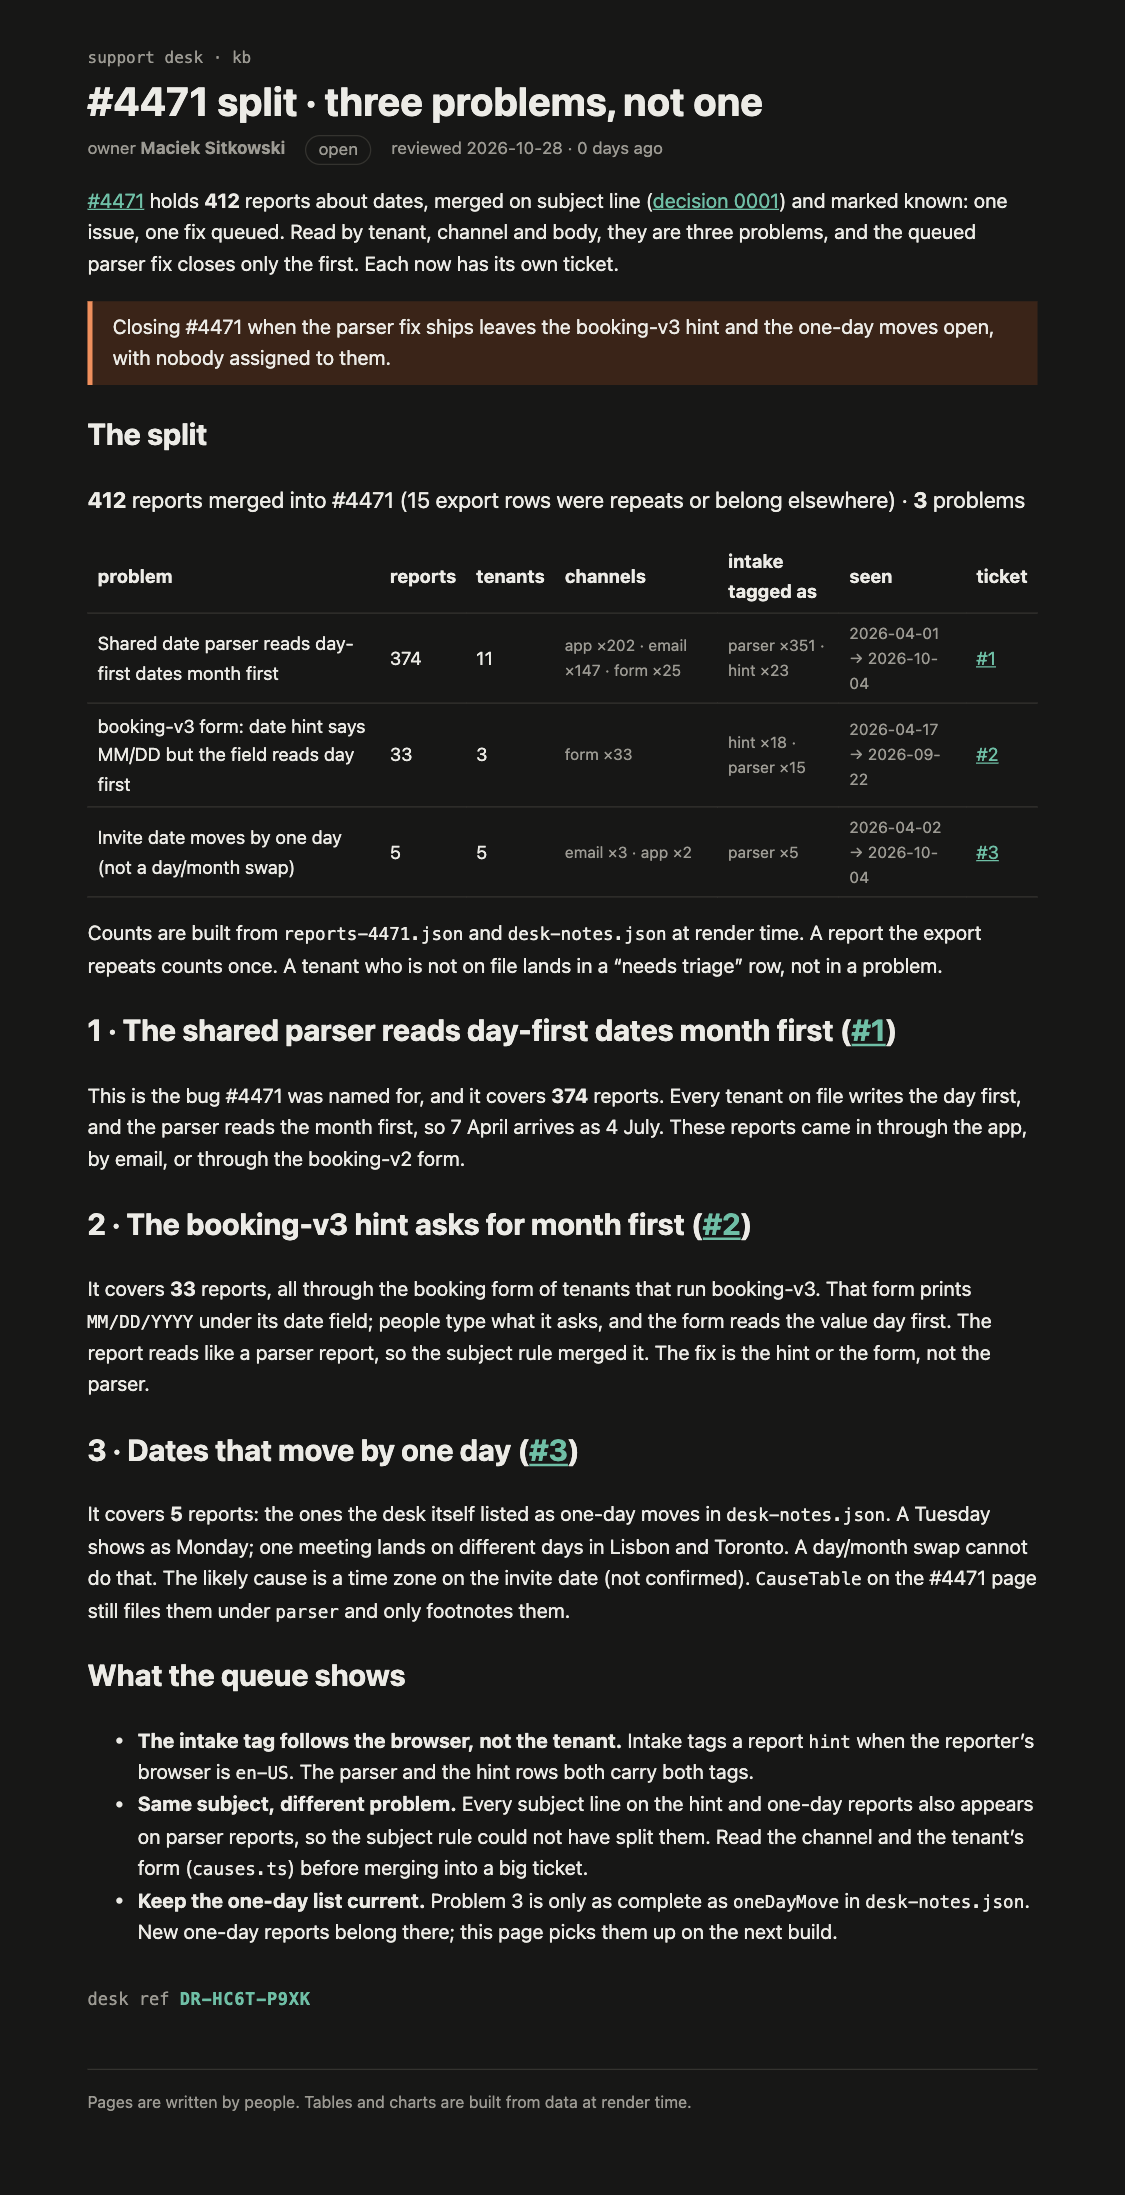
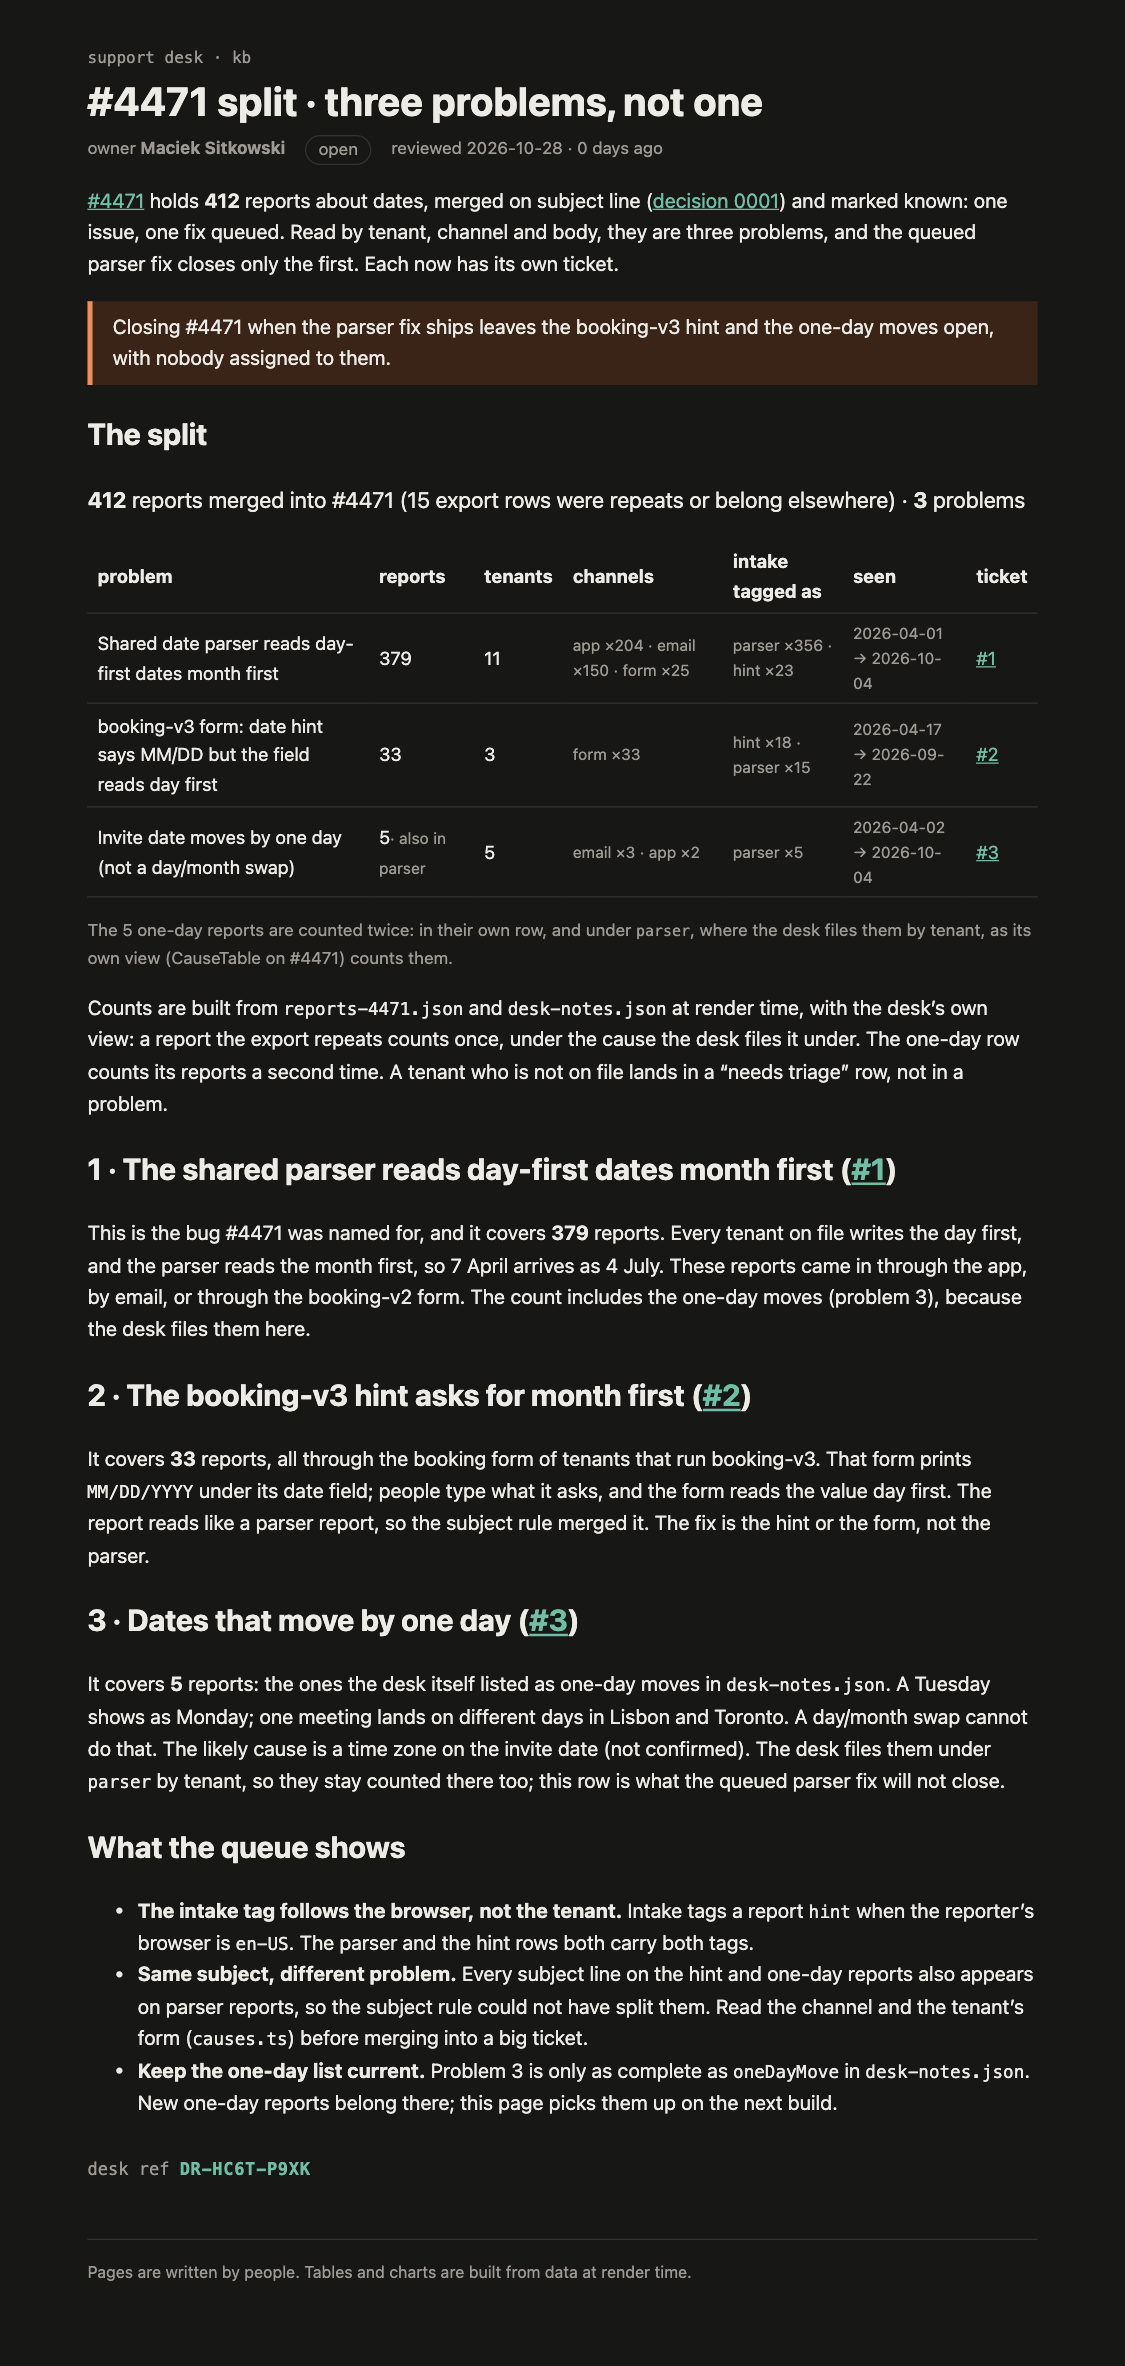
kb: count #4471 split with the desk's own view
Parser/hint come from groupByCause as CauseTable counts them; the one-day row counts its reports a second time, still filed under parser. Matches issue #1 (379).

diff --git a/rendered/4471-split.html b/rendered/4471-split.html
@@ -3,21 +3,21 @@
   <head>
     <meta charset="utf-8" />
     <meta name="viewport" content="width=device-width, initial-scale=1" />
-    <link href="../../_app/immutable/entry/start.N2RZi4Ro.js" rel="modulepreload">
+    <link href="../../_app/immutable/entry/start.PsPxi_ea.js" rel="modulepreload">
 		<link href="../../_app/immutable/chunks/fruYDLqp.js" rel="modulepreload">
-		<link href="../../_app/immutable/chunks/LV5d2gkk.js" rel="modulepreload">
+		<link href="../../_app/immutable/chunks/DdspoXR4.js" rel="modulepreload">
 		<link href="../../_app/immutable/chunks/Cbdj2qAo.js" rel="modulepreload">
-		<link href="../../_app/immutable/entry/app.BtPvdegX.js" rel="modulepreload">
+		<link href="../../_app/immutable/entry/app.6z4g_MA8.js" rel="modulepreload">
 		<link href="../../_app/immutable/chunks/BkYfdh9H.js" rel="modulepreload">
 		<link href="../../_app/immutable/chunks/BD3UdjSR.js" rel="modulepreload">
 		<link href="../../_app/immutable/chunks/wnmzq4eU.js" rel="modulepreload">
 		<link href="../../_app/immutable/chunks/TGQFHf5e.js" rel="modulepreload">
 		<link href="../../_app/immutable/nodes/0.CCpBT1ka.js" rel="modulepreload">
 		<link href="../../_app/immutable/chunks/ybC49tkz.js" rel="modulepreload">
-		<link href="../../_app/immutable/nodes/5.B3OJIxkS.js" rel="modulepreload">
-		<link href="../../_app/immutable/chunks/C7xtx7Kv.js" rel="modulepreload">
+		<link href="../../_app/immutable/nodes/5.mKniztp2.js" rel="modulepreload">
+		<link href="../../_app/immutable/chunks/Cb8XVL1P.js" rel="modulepreload">
 		<link href="../../_app/immutable/chunks/DFPV7QJw.js" rel="modulepreload">
-		<link href="../../_app/immutable/chunks/DxLlZHEF.js" rel="modulepreload">
+		<link href="../../_app/immutable/chunks/bMpqO4Su.js" rel="modulepreload">
 		<link href="../../_app/immutable/chunks/iXLSwIXB.js" rel="modulepreload">
 		<!--e2jw2j--><!----><title>#4471 split · three problems, not one · support kb</title>
 		<link href="../../_app/immutable/assets/runbook.BhhgOc_n.css" rel="stylesheet">
@@ -30,33 +30,35 @@ subject line (<a href="/kb/decisions/0001-dedupe-by-subject">decision 0001</a>) 
 one fix queued. Read by tenant, channel and body, they are three problems, and the queued parser
 fix closes only the first. Each now has its own ticket.</p> <aside class="warn svelte-17bri61"><!---->Closing #4471 when the parser fix ships leaves the booking-v3 hint and the one-day moves open,
 with nobody assigned to them.<!----></aside><!----> <h2>The split</h2> <p class="sum svelte-1op6c6"><strong>412</strong> reports merged into #4471
-  (15 export rows were repeats or belong elsewhere) · <strong>3</strong> problems</p> <table><thead><tr><th>problem</th><th>reports</th><th>tenants</th><th>channels</th><th>intake tagged as</th><th>seen</th><th>ticket</th></tr></thead><tbody><!--[--><tr class="svelte-1op6c6"><td class="svelte-1op6c6">Shared date parser reads day-first dates month first</td><td class="svelte-1op6c6">374</td><td class="svelte-1op6c6">11</td><td class="small svelte-1op6c6">app ×202 · email ×147 · form ×25</td><td class="small svelte-1op6c6">parser ×351 · hint ×23</td><td class="small svelte-1op6c6">2026-04-01 → 2026-10-04</td><td class="svelte-1op6c6"><!--[0--><a href="https://github.com/sitek94/mega-s01e03-what-it-shows/issues/1">#1</a><!--]--></td></tr><tr class="svelte-1op6c6"><td class="svelte-1op6c6">booking-v3 form: date hint says MM/DD but the field reads day first</td><td class="svelte-1op6c6">33</td><td class="svelte-1op6c6">3</td><td class="small svelte-1op6c6">form ×33</td><td class="small svelte-1op6c6">hint ×18 · parser ×15</td><td class="small svelte-1op6c6">2026-04-17 → 2026-09-22</td><td class="svelte-1op6c6"><!--[0--><a href="https://github.com/sitek94/mega-s01e03-what-it-shows/issues/2">#2</a><!--]--></td></tr><tr class="svelte-1op6c6"><td class="svelte-1op6c6">Invite date moves by one day (not a day/month swap)</td><td class="svelte-1op6c6">5</td><td class="svelte-1op6c6">5</td><td class="small svelte-1op6c6">email ×3 · app ×2</td><td class="small svelte-1op6c6">parser ×5</td><td class="small svelte-1op6c6">2026-04-02 → 2026-10-04</td><td class="svelte-1op6c6"><!--[0--><a href="https://github.com/sitek94/mega-s01e03-what-it-shows/issues/3">#3</a><!--]--></td></tr><!--]--></tbody></table><!----> <p>Counts are built from <code>reports-4471.json</code> and <code>desk-notes.json</code> at render time. A report the
-export repeats counts once. A tenant who is not on file lands in a “needs triage” row, not in a
-problem.</p> <h2>1 · The shared parser reads day-first dates month first (<a href="https://github.com/sitek94/mega-s01e03-what-it-shows/issues/1" rel="nofollow">#1</a>)</h2> <p>This is the bug #4471 was named for, and it covers <strong>374</strong><!----> reports. Every tenant on file writes the day first, and the parser reads the month first, so
+  (15 export rows were repeats or belong elsewhere) · <strong>3</strong> problems</p> <table><thead><tr><th>problem</th><th>reports</th><th>tenants</th><th>channels</th><th>intake tagged as</th><th>seen</th><th>ticket</th></tr></thead><tbody><!--[--><tr class="svelte-1op6c6"><td class="svelte-1op6c6">Shared date parser reads day-first dates month first</td><td class="svelte-1op6c6">379<!--[-1--><!--]--></td><td class="svelte-1op6c6">11</td><td class="small svelte-1op6c6">app ×204 · email ×150 · form ×25</td><td class="small svelte-1op6c6">parser ×356 · hint ×23</td><td class="small svelte-1op6c6">2026-04-01 → 2026-10-04</td><td class="svelte-1op6c6"><!--[0--><a href="https://github.com/sitek94/mega-s01e03-what-it-shows/issues/1">#1</a><!--]--></td></tr><tr class="svelte-1op6c6"><td class="svelte-1op6c6">booking-v3 form: date hint says MM/DD but the field reads day first</td><td class="svelte-1op6c6">33<!--[-1--><!--]--></td><td class="svelte-1op6c6">3</td><td class="small svelte-1op6c6">form ×33</td><td class="small svelte-1op6c6">hint ×18 · parser ×15</td><td class="small svelte-1op6c6">2026-04-17 → 2026-09-22</td><td class="svelte-1op6c6"><!--[0--><a href="https://github.com/sitek94/mega-s01e03-what-it-shows/issues/2">#2</a><!--]--></td></tr><tr class="svelte-1op6c6"><td class="svelte-1op6c6">Invite date moves by one day (not a day/month swap)</td><td class="svelte-1op6c6">5<!--[0--><span class="small svelte-1op6c6">· also in parser</span><!--]--></td><td class="svelte-1op6c6">5</td><td class="small svelte-1op6c6">email ×3 · app ×2</td><td class="small svelte-1op6c6">parser ×5</td><td class="small svelte-1op6c6">2026-04-02 → 2026-10-04</td><td class="svelte-1op6c6"><!--[0--><a href="https://github.com/sitek94/mega-s01e03-what-it-shows/issues/3">#3</a><!--]--></td></tr><!--]--></tbody></table> <!--[--><p class="small svelte-1op6c6">The 5 one-day reports are counted twice: in their own row, and under <code>parser</code>, where the desk files them by tenant, as its own view
+    (CauseTable on #4471) counts them.</p><!--]--><!----> <p>Counts are built from <code>reports-4471.json</code> and <code>desk-notes.json</code> at render time, with the desk’s own
+view: a report the export repeats counts once, under the cause the desk files it under. The one-day
+row counts its reports a second time. A tenant who is not on file lands in a “needs triage” row,
+not in a problem.</p> <h2>1 · The shared parser reads day-first dates month first (<a href="https://github.com/sitek94/mega-s01e03-what-it-shows/issues/1" rel="nofollow">#1</a>)</h2> <p>This is the bug #4471 was named for, and it covers <strong>379</strong><!----> reports. Every tenant on file writes the day first, and the parser reads the month first, so
 7 April arrives as 4 July. These reports came in through the app, by email, or through the
-booking-v2 form.</p> <h2>2 · The booking-v3 hint asks for month first (<a href="https://github.com/sitek94/mega-s01e03-what-it-shows/issues/2" rel="nofollow">#2</a>)</h2> <p>It covers <strong>33</strong><!----> reports, all through the booking form of
+booking-v2 form. The count includes the one-day moves (problem 3), because the desk files them here.</p> <h2>2 · The booking-v3 hint asks for month first (<a href="https://github.com/sitek94/mega-s01e03-what-it-shows/issues/2" rel="nofollow">#2</a>)</h2> <p>It covers <strong>33</strong><!----> reports, all through the booking form of
 tenants that run booking-v3. That form prints <code>MM/DD/YYYY</code> under its date field; people type what
 it asks, and the form reads the value day first. The report reads like a parser report, so the
 subject rule merged it. The fix is the hint or the form, not the parser.</p> <h2>3 · Dates that move by one day (<a href="https://github.com/sitek94/mega-s01e03-what-it-shows/issues/3" rel="nofollow">#3</a>)</h2> <p>It covers <strong>5</strong><!----> reports: the ones the desk itself listed
 as one-day moves in <code>desk-notes.json</code>. A Tuesday shows as Monday; one meeting lands on different
 days in Lisbon and Toronto. A day/month swap cannot do that. The likely cause is a time zone on the
-invite date (not confirmed). <code>CauseTable</code> on the #4471 page still files them under <code>parser</code> and
-only footnotes them.</p> <h2>What the queue shows</h2> <ul><li><strong>The intake tag follows the browser, not the tenant.</strong> Intake tags a report <code>hint</code> when the
+invite date (not confirmed). The desk files them under <code>parser</code> by tenant, so they stay counted
+there too; this row is what the queued parser fix will not close.</p> <h2>What the queue shows</h2> <ul><li><strong>The intake tag follows the browser, not the tenant.</strong> Intake tags a report <code>hint</code> when the
 reporter’s browser is <code>en-US</code>. The parser and the hint rows both carry both tags.</li> <li><strong>Same subject, different problem.</strong> Every subject line on the hint and one-day reports also
 appears on parser reports, so the subject rule could not have split them. Read the channel and
 the tenant’s form (<code>causes.ts</code>) before merging into a big ticket.</li> <li><strong>Keep the one-day list current.</strong> Problem 3 is only as complete as <code>oneDayMove</code> in <code>desk-notes.json</code>. New one-day reports belong there; this page picks them up on the next build.</li></ul> <!--[0--><p class="stamp svelte-1280m42">desk ref <b class="svelte-1280m42">DR-HC6T-P9XK</b></p><!--]--><!----><!----></main> <footer class="svelte-e2jw2j">Pages are written by people. Tables and charts are built from data at render time.</footer></div><!--]--><!----><!--]--><!--]--> <!--[-1--><!--]--><!--]-->
 			
 			<script>
 				{
-					__sveltekit_17jyalu = {
+					__sveltekit_y9k0yg = {
 						base: new URL("../..", location).pathname.slice(0, -1)
 					};
 
 					const element = document.currentScript.parentElement;
 
 					Promise.all([
-						import("../../_app/immutable/entry/start.N2RZi4Ro.js"),
-						import("../../_app/immutable/entry/app.BtPvdegX.js")
+						import("../../_app/immutable/entry/start.PsPxi_ea.js"),
+						import("../../_app/immutable/entry/app.6z4g_MA8.js")
 					]).then(([kit, app]) => {
 						kit.start(app, element, {
 							node_ids: [0, 5],

diff --git a/src/lib/kb/problems.ts b/src/lib/kb/problems.ts
@@ -1,9 +1,10 @@
-// #4471 split by problem. A cause (causes.ts) says where a report's date went wrong by tenant and
-// channel; a problem is what the fix has to change. The one-day moves the desk recorded in
-// desk-notes.json are not a day/month swap, so they leave the cause they are filed under.
-import { causeOf, uniqueById, type Report, type Tenant } from '#lib/kb/causes';
+// #4471 split by problem, counted with the desk's own view: each report stays under the cause it
+// is filed under (causes.ts, as CauseTable counts it). The one-day moves the desk recorded in
+// desk-notes.json are a problem of their own, so they get their own row too, while still being
+// counted under the cause they are filed under.
+import { groupByCause, uniqueById, type Cause, type Report, type Tenant } from '#lib/kb/causes';
 
-export type Problem = 'parser' | 'hint' | 'one-day' | 'unplaced';
+export type Problem = Cause | 'one-day' | 'unplaced';
 
 const ISSUES = 'https://github.com/sitek94/mega-s01e03-what-it-shows/issues';
 
@@ -16,14 +17,11 @@ export const PROBLEMS: Record<Problem, { title: string; issue: number | null }> 
 
 export const issueUrl = (n: number) => `${ISSUES}/${n}`;
 
-export function problemOf(r: Report, t: Tenant | undefined, oneDayMove: readonly string[]): Problem {
-  if (oneDayMove.includes(r.id)) return 'one-day';
-  return causeOf(r, t) ?? 'unplaced';
-}
-
 export type ProblemGroup = {
   problem: Problem;
   reports: Report[];
+  // Problems these reports are also counted under (the cause the desk files them under).
+  alsoIn: Problem[];
   tenants: number;
   channels: Record<string, number>;
   taggedAs: Record<string, number>;
@@ -34,7 +32,22 @@ export type ProblemGroup = {
 const tally = (rs: Report[], key: (r: Report) => string) =>
   rs.reduce<Record<string, number>>((n, r) => ({ ...n, [key(r)]: (n[key(r)] ?? 0) + 1 }), {});
 
-// Unique reports merged into the ticket, one group per problem, largest first.
+function group(problem: Problem, rs: Report[], alsoIn: Problem[]): ProblemGroup {
+  const days = rs.map((r) => r.receivedAt.slice(0, 10)).sort();
+  return {
+    problem,
+    reports: rs,
+    alsoIn,
+    tenants: new Set(rs.map((r) => r.tenant)).size,
+    channels: tally(rs, (r) => r.channel),
+    taggedAs: tally(rs, (r) => r.meta.intakeTag),
+    firstSeen: days[0],
+    lastSeen: days[days.length - 1],
+  };
+}
+
+// Unique reports merged into the ticket: one group per cause as the desk files them, largest
+// first, then the one-day moves.
 export function splitTicket(
   reports: Report[],
   ticket: number,
@@ -42,24 +55,12 @@ export function splitTicket(
   oneDayMove: readonly string[],
 ): { merged: Report[]; groups: ProblemGroup[] } {
   const merged = uniqueById(reports).filter((r) => r.mergedInto === ticket);
-  const byProblem = new Map<Problem, Report[]>();
-  for (const r of merged) {
-    const p = problemOf(r, tenantOf(r), oneDayMove);
-    byProblem.set(p, [...(byProblem.get(p) ?? []), r]);
+  const byCause = groupByCause(merged, tenantOf);
+  const groups = byCause.map((g) => group(g.cause, g.reports, []));
+  const moved = merged.filter((r) => oneDayMove.includes(r.id));
+  if (moved.length) {
+    const filedUnder = byCause.filter((g) => g.reports.some((r) => oneDayMove.includes(r.id))).map((g) => g.cause);
+    groups.push(group('one-day', moved, filedUnder));
   }
-  const groups = [...byProblem.entries()]
-    .map(([problem, rs]) => {
-      const days = rs.map((r) => r.receivedAt.slice(0, 10)).sort();
-      return {
-        problem,
-        reports: rs,
-        tenants: new Set(rs.map((r) => r.tenant)).size,
-        channels: tally(rs, (r) => r.channel),
-        taggedAs: tally(rs, (r) => r.meta.intakeTag),
-        firstSeen: days[0],
-        lastSeen: days[days.length - 1],
-      };
-    })
-    .sort((a, b) => b.reports.length - a.reports.length);
   return { merged, groups };
 }

diff --git a/src/lib/kb/ProblemTable.svelte b/src/lib/kb/ProblemTable.svelte
@@ -33,7 +33,7 @@
       {@const p = PROBLEMS[g.problem]}
       <tr class:open={p.issue === null}>
         <td>{p.title}</td>
-        <td>{g.reports.length}</td>
+        <td>{g.reports.length}{#if g.alsoIn.length}<span class="small"> · also in {g.alsoIn.join(', ')}</span>{/if}</td>
         <td>{g.tenants}</td>
         <td class="small">{list(g.channels)}</td>
         <td class="small">{list(g.taggedAs)}</td>
@@ -43,6 +43,14 @@
     {/each}
   </tbody>
 </table>
+
+{#each split.groups.filter((g) => g.alsoIn.length) as g (g.problem)}
+  <p class="small">
+    The {g.reports.length} {g.problem} reports are counted twice: in their own row, and under
+    <code>{g.alsoIn.join(', ')}</code>, where the desk files them by tenant, as its own view
+    (CauseTable on #{ticket}) counts them.
+  </p>
+{/each}
 
 <style>
   .sum { font-size: 1.1rem; }
